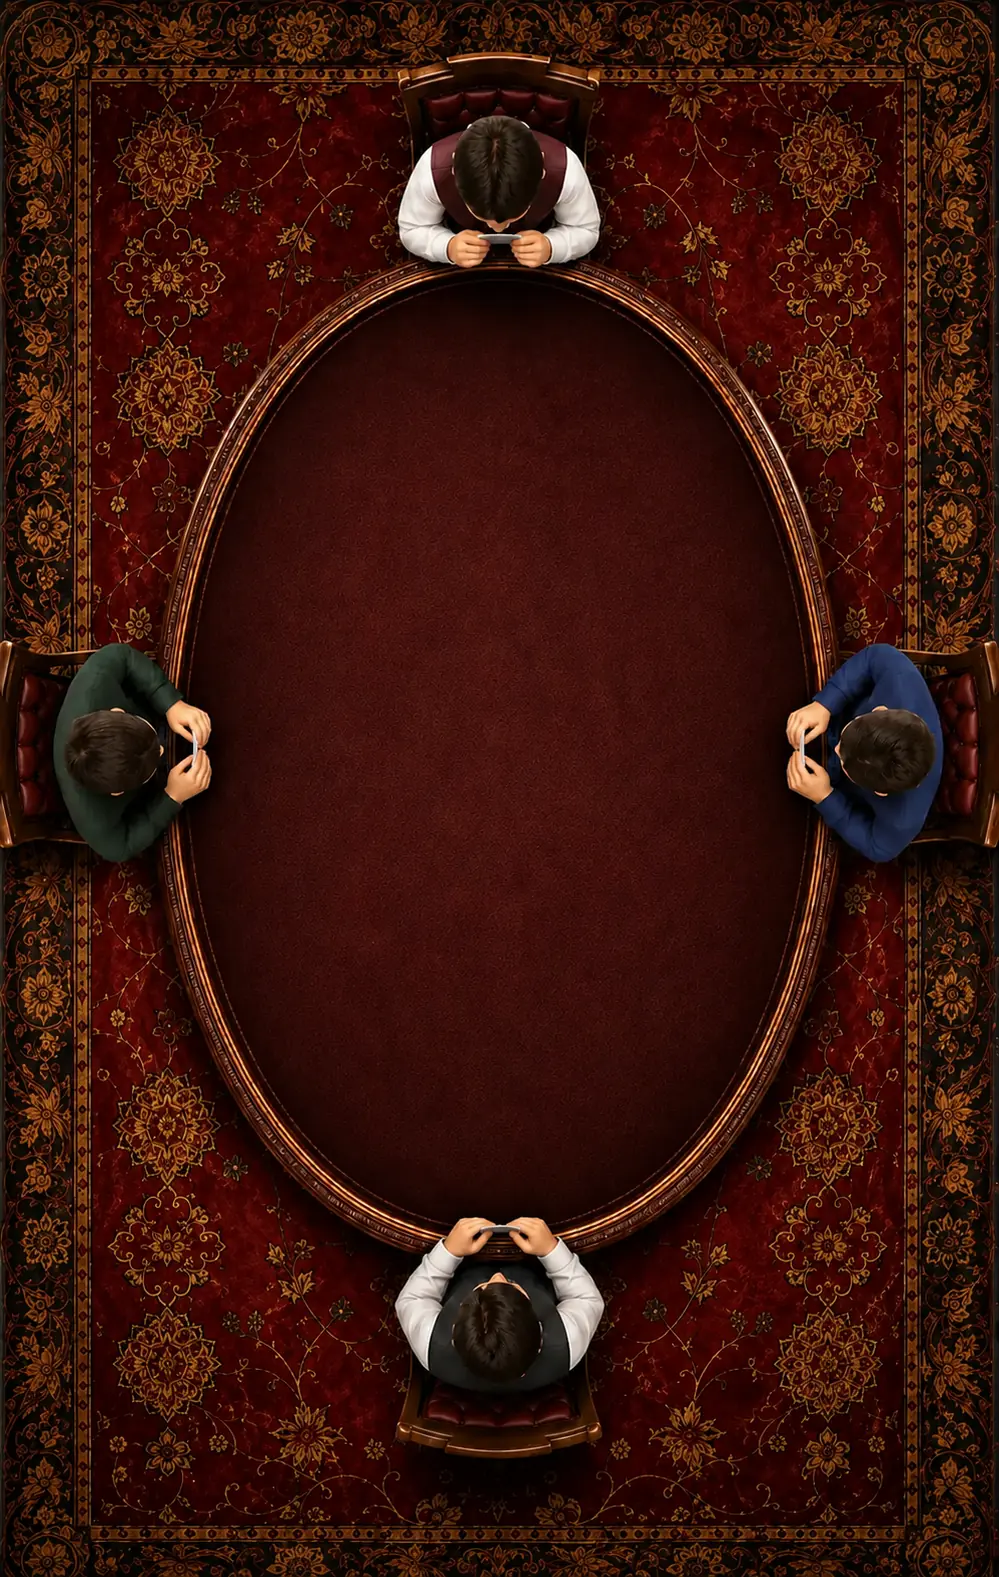
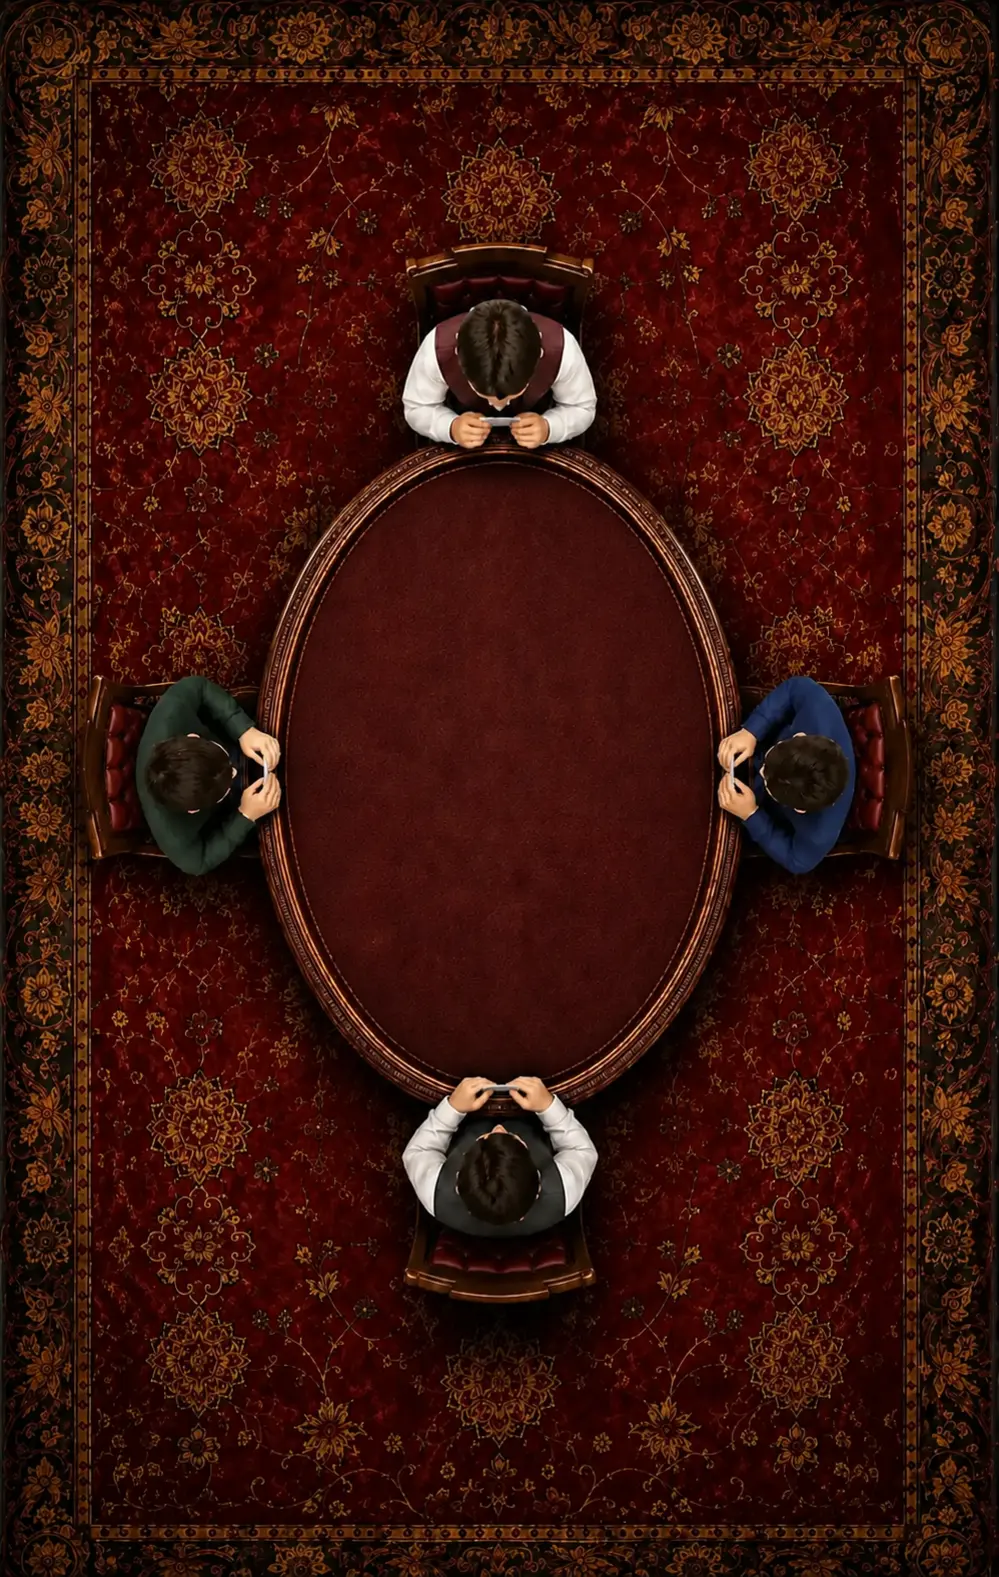
Add files via upload

diff --git a/assets/index.html b/assets/index.html
@@ -54,6 +54,8 @@
   .dot.team1{ background:var(--teal); }
   .reset-link{ background:rgba(77,13,10,.62); border:1px solid var(--line); color:var(--cream); border-radius:999px; padding:8px 13px; font-size:13px; font-weight:750; cursor:pointer; }
   .reset-link:hover{ color:var(--text-ink); border-color:var(--text-ink-dim); }
+  .reset-link.danger{ color:#ffd9cf; border-color:rgba(255,116,91,.68); background:linear-gradient(180deg,rgba(117,25,17,.86),rgba(65,11,8,.9)); box-shadow:0 0 0 1px rgba(255,166,125,.08),0 7px 18px rgba(34,2,1,.32); }
+  .reset-link.danger:hover{ color:#fff4ef; border-color:#ff9d84; }
 
   .screen{ flex:1; display:flex; flex-direction:column; gap:8px; }
 
@@ -257,10 +259,10 @@
       repeating-linear-gradient(105deg,rgba(33,46,63,.018) 0 1px,transparent 1px 4px),
       linear-gradient(150deg,#fffefa 0,#faf9f3 62%,#e8ebef 100%);
     color:#111722; display:block; font-family:Arial,sans-serif; font-weight:900; font-size:16px;
-    box-shadow:0 9px 20px rgba(0,0,0,.46),inset 0 0 0 1px rgba(17,31,52,.18); position:relative; flex:none;
+    box-shadow:0 9px 20px rgba(0,0,0,.46); position:relative; flex:none;
     border:1px solid rgba(255,255,255,.9); transform-style:preserve-3d;
   }
-  .card::before{ content:""; position:absolute; inset:3.2%; z-index:4; border-radius:7px; border:1px solid rgba(43,61,83,.14); box-shadow:inset 0 0 9px rgba(54,73,94,.04); pointer-events:none; }
+  .card::before{ display:none; }
   .card::after{ content:""; position:absolute; inset:0; z-index:5; pointer-events:none; background:linear-gradient(115deg,rgba(255,255,255,.3),transparent 22% 78%,rgba(37,54,74,.045)); }
   .card.red{ color:#d62932; }
   .card .corner{ position:absolute; z-index:3; display:flex; flex-direction:column; align-items:center; line-height:.82; font-size:1em; font-size:21cqw; font-weight:950; letter-spacing:-.04em; }
@@ -398,17 +400,17 @@
     width:100vw; z-index:30; border:0; margin:0; padding:0 8px; justify-content:center; pointer-events:none;
   }
   .game-hud{
-    width:100%; display:flex; align-items:flex-start; justify-content:space-between; direction:ltr;
+    width:100%; display:flex; align-items:flex-start; justify-content:space-between; gap:6px; direction:ltr;
   }
   .hud-team{
-    position:relative; width:clamp(140px,32vw,240px); min-width:0; min-height:48px;
-    display:flex; align-items:center; justify-content:center; gap:6px; direction:rtl; padding:6px 9px;
-    border-radius:14px; background:linear-gradient(145deg,rgba(48,30,25,.72),rgba(16,10,9,.7));
+    position:relative; width:auto; max-width:min(44vw,240px); min-width:0; min-height:0; flex:0 1 auto;
+    display:flex; align-items:center; justify-content:center; gap:4px; direction:rtl; padding:3px 7px;
+    border-radius:10px; background:linear-gradient(145deg,rgba(48,30,25,.72),rgba(16,10,9,.7));
     border:1px solid rgba(235,185,91,.48); box-shadow:inset 0 1px 0 rgba(255,255,255,.1),0 6px 18px rgba(0,0,0,.32);
     backdrop-filter:blur(14px) saturate(1.25); -webkit-backdrop-filter:blur(14px) saturate(1.25);
   }
-  .hud-team .hud-name{ max-width:calc(100% - 29px); overflow:hidden; text-overflow:ellipsis; white-space:nowrap; color:var(--game-label-color); font-size:var(--game-label-size); line-height:1.3; font-weight:900; text-shadow:0 2px 3px rgba(0,0,0,.8); }
-  .hud-team .hud-score{ min-width:1em; color:var(--game-label-color); font-family:Arial,sans-serif; font-size:var(--game-number-size); line-height:1.3; font-weight:950; text-align:center; text-shadow:0 2px 2px #160b07; }
+  .hud-team .hud-name{ max-width:calc(100% - 24px); min-width:0; overflow:hidden; text-overflow:ellipsis; white-space:nowrap; color:var(--game-label-color); font-size:var(--game-label-size); line-height:1.15; font-weight:900; text-shadow:0 2px 3px rgba(0,0,0,.8); }
+  .hud-team .hud-score{ min-width:1em; color:var(--game-label-color); font-family:Arial,sans-serif; font-size:var(--game-number-size); line-height:1.15; font-weight:950; text-align:center; text-shadow:0 2px 2px #160b07; }
   .trump-emblem{ position:absolute; top:calc(100% + 7px); left:50%; translate:-50% 0; color:#e6b653; font-size:clamp(42px,6.5vw,62px); line-height:1; pointer-events:none; perspective:220px; }
   .trump-emblem svg{ display:block; transform-origin:50% 50%; transform-style:preserve-3d; animation:trumpSpin 3.6s linear infinite; filter:drop-shadow(0 1px 0 #fff0b8) drop-shadow(0 3px 0 #7d4718) drop-shadow(0 6px 6px rgba(0,0,0,.62)); }
   @keyframes trumpSpin{
@@ -463,16 +465,21 @@
   body.table-mode .chat-badge{ background:var(--game-label-color); color:#1b0e09; border:1px solid rgba(255,235,192,.75); }
   .fab-icon{ width:23px; height:23px; fill:none; stroke:currentColor; stroke-width:2; stroke-linecap:round; stroke-linejoin:round; }
   @media (max-width:520px){
+    :root{
+      --game-label-size:clamp(15px,4.2vw,17px);
+      --game-number-size:var(--game-label-size);
+    }
     #app{ padding-left:4px; padding-right:4px; }
+    body.table-mode .table-board{ background-size:100% 100%; }
     .scorebar{ width:100%; justify-content:center; order:3; }
     .score-chip{ flex:1; justify-content:center; padding:5px 7px; }
     .score-chip .score-name{ max-width:92px; }
     .table-wrap{ border-radius:15px; }
     .seat{ width:180px; height:84px; }
-    .seat.pos-top{ top:7%; }
-    .seat.pos-bottom{ bottom:7%; }
-    .seat.pos-left{ left:6%; }
-    .seat.pos-right{ right:6%; }
+    .seat.pos-top{ top:15%; }
+    .seat.pos-bottom{ bottom:15%; }
+    .seat.pos-left{ left:10%; }
+    .seat.pos-right{ right:10%; }
     .seat .chip{ font-size:var(--game-label-size); }
     .trick-count{ font-size:var(--game-number-size); }
     .hand-row{ gap:3px; }
@@ -483,9 +490,10 @@
     body.table-mode .score-chip{ padding:5px 6px; }
     body.table-mode .score-chip .score-name{ max-width:74%; font-size:9px; }
     body.table-mode .topbar{ width:100vw; padding:0 5px; }
-    .hud-team{ width:43.5vw; min-height:40px; gap:5px; padding:4px 7px; border-radius:12px; overflow:visible; }
-    .hud-team .hud-name{ font-size:var(--game-label-size); }
-    .hud-team .hud-score{ font-size:var(--game-number-size); }
+    .game-hud{ gap:4px; }
+    .hud-team{ width:auto; max-width:44vw; min-height:0; gap:3px; padding:2px 5px; border-radius:8px; overflow:visible; }
+    .hud-team .hud-name{ max-width:calc(100% - 20px); font-size:var(--game-label-size); line-height:1.15; }
+    .hud-team .hud-score{ font-size:var(--game-number-size); line-height:1.15; }
     .trump-emblem{ top:calc(100% + 5px); font-size:44px; }
     .identity-card{ width:min(94vw,430px); padding:30px 17px 25px; border-radius:34px; }
     .identity-list{ grid-template-columns:1fr; gap:10px; }
@@ -709,6 +717,7 @@ function defaultState(){
   return {
     league:[0,0],
     matchScore:[0,0],
+    gameId:Date.now(),
     hakemIndex: Math.floor(Math.random()*4),
     nextHakemIndex:null,
     nextHakemConfirmedAtMatchEnd:false,
@@ -740,6 +749,7 @@ function normalizeState(st){
   if(!Array.isArray(st.tricksWon) || st.tricksWon.length!==2) st.tricksWon=[0,0];
   if(!Array.isArray(st.seatTricks) || st.seatTricks.length!==4) st.seatTricks=[0,0,0,0];
   if(!Array.isArray(st.botSeats) || st.botSeats.length!==4) st.botSeats=[false,false,false,false];
+  if(typeof st.gameId!=='number') st.gameId=typeof st.updatedAt==='number'?st.updatedAt:Date.now();
   if(typeof st.actionSeq!=='number') st.actionSeq=0;
   if(st.nextHakemIndex!==null && (!Number.isInteger(st.nextHakemIndex) || st.nextHakemIndex<0 || st.nextHakemIndex>3)) st.nextHakemIndex=null;
   if(typeof st.nextHakemConfirmedAtMatchEnd!=='boolean') st.nextHakemConfirmedAtMatchEnd=false;
@@ -1226,8 +1236,9 @@ async function maybeTriggerBot(){
   if(state.phase==='trumpSelect' && state.botSeats[state.hakemIndex]){
     botActionInFlight = true;
     var seat = state.hakemIndex;
+    var botGameId = state.gameId;
     await wait(500 + Math.random()*1200);
-    if(state && state.phase==='trumpSelect' && state.hakemIndex===seat && state.botSeats[seat]){
+    if(state && state.gameId===botGameId && state.phase==='trumpSelect' && state.hakemIndex===seat && state.botSeats[seat]){
       await applyTrumpChoice(botChooseTrumpSuit(state.hands[seat]));
     }
     botActionInFlight = false;
@@ -1235,8 +1246,9 @@ async function maybeTriggerBot(){
     botActionInFlight = true;
     var seat2 = state.turnIndex;
     var trickLenBefore = state.currentTrick.length;
+    var botGameId2 = state.gameId;
     await wait(500 + Math.random()*1200);
-    if(state && state.phase==='playing' && state.turnIndex===seat2 && state.currentTrick.length===trickLenBefore && state.botSeats[seat2]){
+    if(state && state.gameId===botGameId2 && state.phase==='playing' && state.turnIndex===seat2 && state.currentTrick.length===trickLenBefore && state.botSeats[seat2]){
       var idx = botChooseCardIndex(state.hands[seat2], state.currentTrick, state.trump);
       if(idx>=0) await applyCardPlay(seat2, idx);
     }
@@ -1245,12 +1257,14 @@ async function maybeTriggerBot(){
 }
 
 function scheduleAutoAdvance(seq){
-  if(autoAdvanceScheduled[seq]) return;
-  autoAdvanceScheduled[seq] = true;
-  setTimeout(function(){ autoAdvanceTrick(seq); }, 2200);
+  var gameId = state && state.gameId;
+  var timerKey = gameId+':'+seq;
+  if(autoAdvanceScheduled[timerKey]) return;
+  autoAdvanceScheduled[timerKey] = true;
+  setTimeout(function(){ autoAdvanceTrick(seq,gameId); }, 2200);
 }
-async function autoAdvanceTrick(seq){
-  if(!state || state.phase!=='trickResult' || state.trickSeq!==seq) return;
+async function autoAdvanceTrick(seq,gameId){
+  if(!state || state.gameId!==gameId || state.phase!=='trickResult' || state.trickSeq!==seq) return;
   var ns = Object.assign({}, state);
   ns.currentTrick = [];
   ns.turnIndex = ns.leader;
@@ -1273,6 +1287,27 @@ async function resetLeagueConfirm(){
   var ns = Object.assign({}, state);
   ns.league = [0,0];
   await persistState(ns);
+}
+
+async function restartGameConfirm(){
+  if(myIdentity!==0 || !adminAuthenticated || !state) return;
+  if(!confirm('\u0628\u0627\u0632\u06CC \u0627\u0632 \u0627\u0628\u062A\u062F\u0627 \u0634\u0631\u0648\u0639 \u0634\u0648\u062F\u061F\n\u0627\u0645\u062A\u06CC\u0627\u0632 \u062A\u06CC\u0645\u200C\u0647\u0627 \u0648 \u062F\u0633\u062A\u200C\u0647\u0627\u06CC \u06AF\u0631\u0641\u062A\u0647\u200C\u0634\u062F\u0647 \u0647\u0645\u0647 \u0635\u0641\u0631 \u0645\u06CC\u200C\u0634\u0648\u0646\u062F.')) return;
+  while(stateWritesInFlight>0) await wait(50);
+  var preservedBots = (state.botSeats||[false,false,false,false]).slice();
+  var chosenHakem = Number.isInteger(state.nextHakemIndex) ? state.nextHakemIndex : state.hakemIndex;
+  var fresh = defaultState();
+  fresh.botSeats = preservedBots;
+  fresh.hakemIndex = Number.isInteger(chosenHakem) ? chosenHakem : 0;
+  fresh.nextHakemIndex = null;
+  fresh.gameId = Date.now();
+  autoAdvanceScheduled = {};
+  botActionInFlight = false;
+  humanPlayInFlight = false;
+  lastAnimatedActionSeq = 0;
+  lastAnimatedTrickSeq = 0;
+  lastAnimatedCutSeq = 0;
+  adminOpen = false;
+  await persistState(fresh);
 }
 
 async function toggleBot(seat){
@@ -1638,6 +1673,7 @@ function adminPanelHtml(){
       '<div class="card-panel settings-card settings-actions">'+
         '<button class="reset-link" onclick="changeIdentity()">\u062A\u063A\u06CC\u06CC\u0631 \u0628\u0627\u0632\u06CC\u06A9\u0646</button>'+
         '<button class="reset-link" onclick="resetLeagueConfirm()">\u0635\u0641\u0631 \u06A9\u0631\u062F\u0646 \u0627\u0645\u062A\u06CC\u0627\u0632</button>'+
+        '<button class="reset-link danger" onclick="restartGameConfirm()">\u0634\u0631\u0648\u0639 \u062F\u0648\u0628\u0627\u0631\u0647 \u0628\u0627\u0632\u06CC</button>'+
       '</div>'+
     '</div></div></div>';
 }
